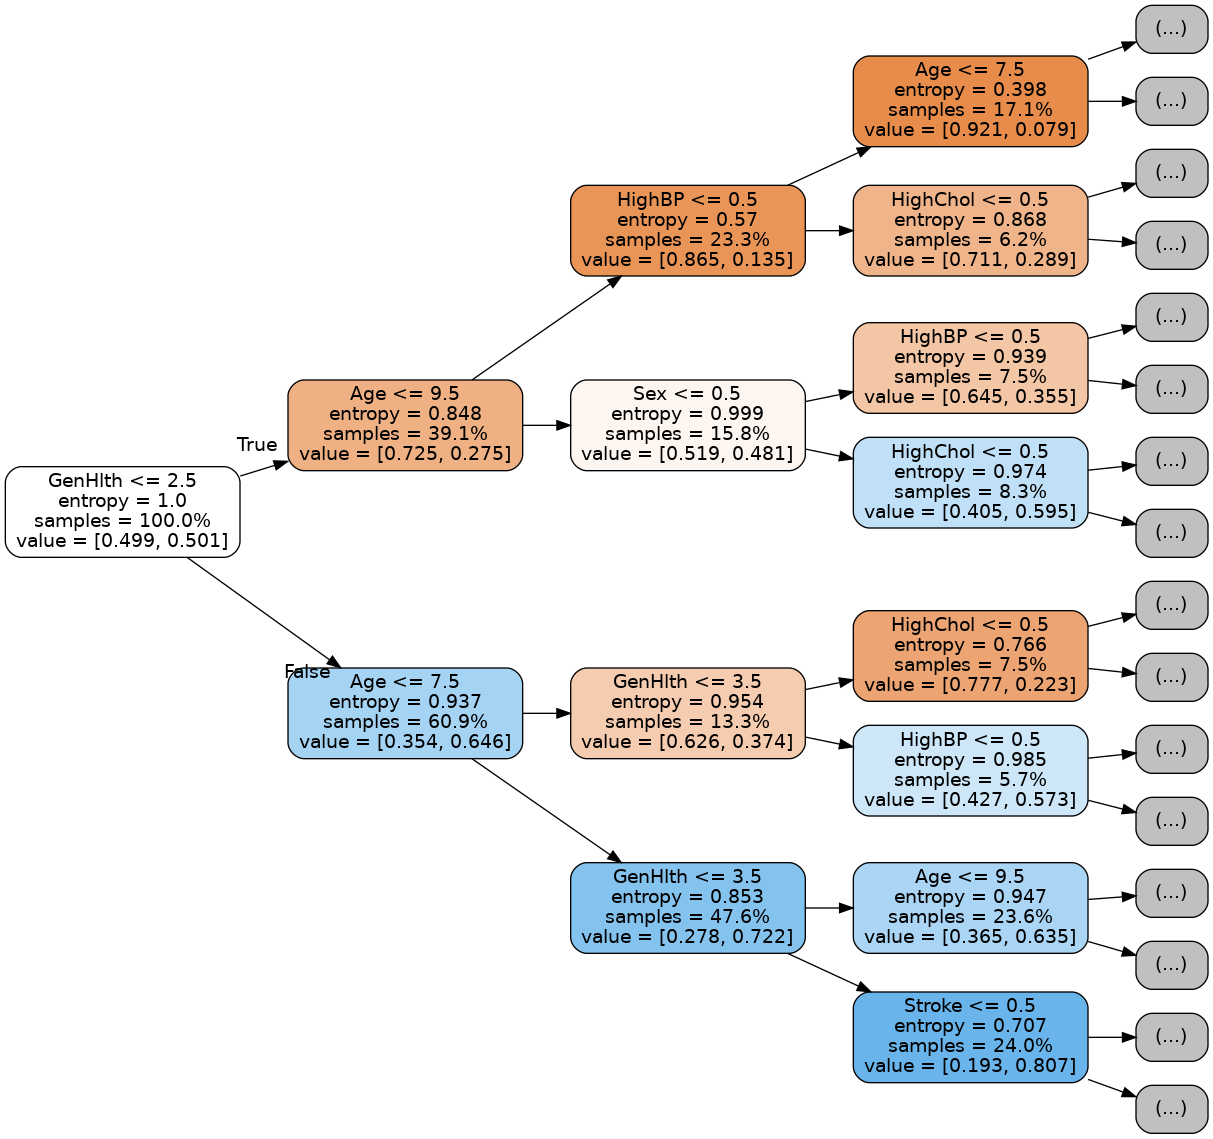
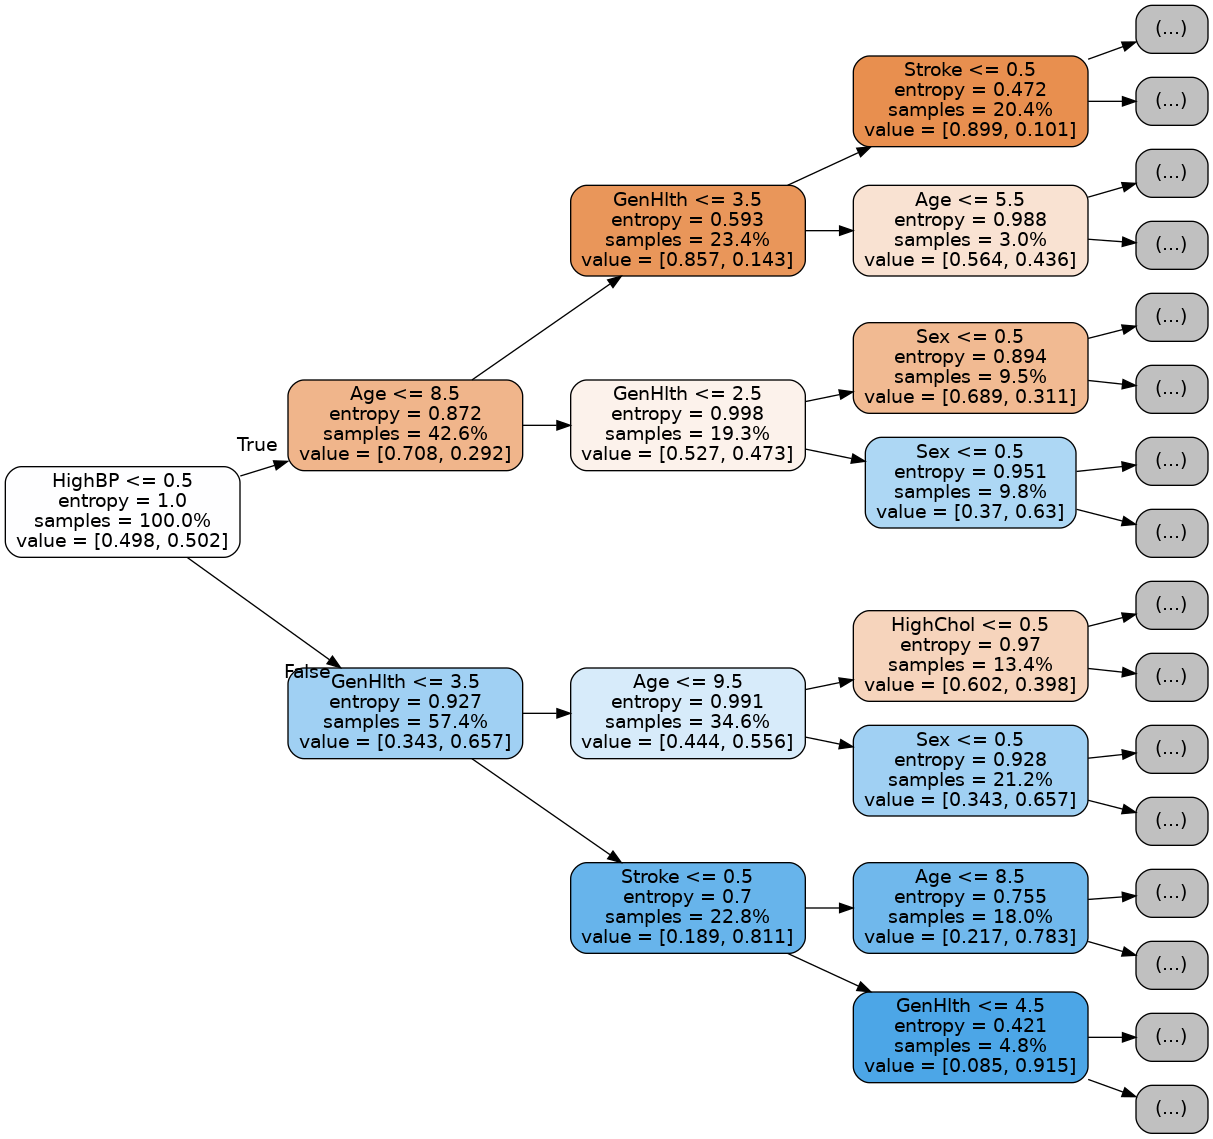
tree model: depth 7

diff --git a/code/tree.py b/code/tree.py
@@ -1,12 +1,12 @@
-import pandas as pd
-import numpy as np
-import graphviz
-import seaborn as sns
-import matplotlib.pyplot as plt
-from sklearn import tree
-from sklearn.model_selection import train_test_split
-from sklearn import metrics
 import pickle
+
+import graphviz
+import matplotlib.pyplot as plt
+import numpy as np
+import pandas as pd
+import seaborn as sns
+from sklearn import metrics, tree
+from sklearn.model_selection import train_test_split
 
 
 def make_tree(data, matrix_title, output_file):
@@ -18,7 +18,7 @@ def make_tree(data, matrix_title, output_file):
     )
 
     classifier = tree.DecisionTreeClassifier(
-        max_depth=9, min_samples_leaf=4, random_state=42, criterion="entropy"
+        max_depth=7, min_samples_leaf=4, random_state=42, criterion="entropy"
     )
     classifier.fit(features_train, target_train)
     result = classifier.predict(features_test)
